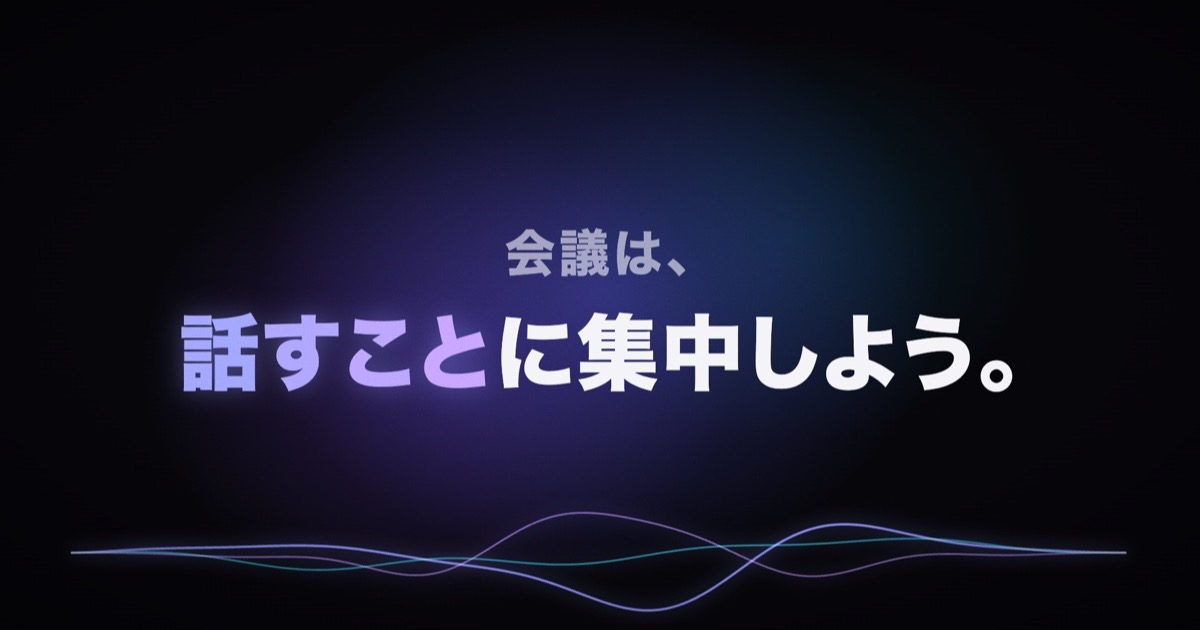
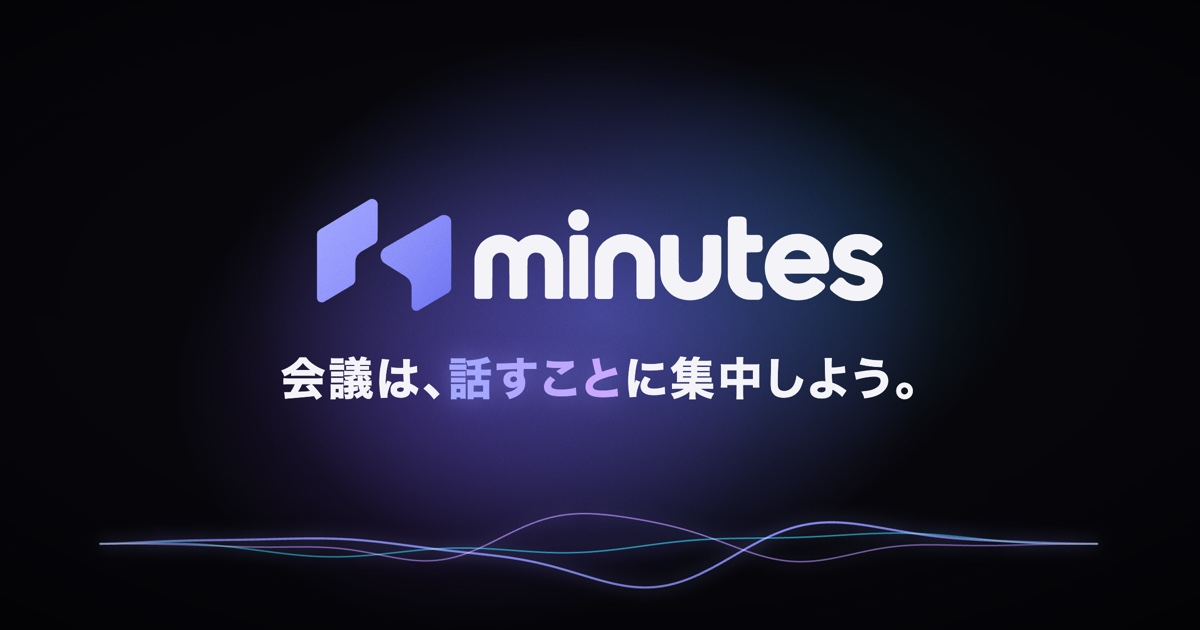
公開ページの OGP 画像をロゴ入りにする
紹介映像の最後の場面と同じ背景と光の上に、ロゴとキャッチコピー、声の波形を置いた。
ロゴとキャッチコピーのまとまりは光の中心（画像の中央より少し上）に置く。
英語版のページには「Focus on the conversation.」の画像を作り、og:image で分ける。
SNS が古い画像を使い続けないよう、画像の URL に ?v=2 を付けた。

Changed region(s): [[0.0617, 0.3016, 0.925, 0.9651], [0.5242, 0.9651, 0.555, 0.9952]]

diff --git a/site/index.html b/site/index.html
@@ -16,7 +16,7 @@
 <meta property="og:title" content="Minutes — 会議は、話すことに集中しよう。">
 <meta property="og:description" content="Mac で会議を録音し、話者付きの文字起こしと要約から議事録を作るアプリ。無料・オープンソース。">
 <meta property="og:url" content="https://minutes.tools/">
-<meta property="og:image" content="https://minutes.tools/assets/og-image.jpg">
+<meta property="og:image" content="https://minutes.tools/assets/og-image.jpg?v=2">
 <meta name="twitter:card" content="summary_large_image">
 <link rel="stylesheet" href="assets/site.css">
 <script>document.documentElement.classList.replace("no-js", "js")</script>

diff --git a/site/en/index.html b/site/en/index.html
@@ -16,7 +16,7 @@
 <meta property="og:title" content="Minutes — Focus on the conversation.">
 <meta property="og:description" content="A Mac app that records your meetings and writes the minutes from a transcript with speakers and a summary. Free and open source.">
 <meta property="og:url" content="https://minutes.tools/en/">
-<meta property="og:image" content="https://minutes.tools/assets/og-image.jpg">
+<meta property="og:image" content="https://minutes.tools/assets/og-image-en.jpg?v=2">
 <meta name="twitter:card" content="summary_large_image">
 <link rel="stylesheet" href="../assets/site.css">
 <script>document.documentElement.classList.replace("no-js", "js")</script>

diff --git a/scripts/site-en.py b/scripts/site-en.py
@@ -26,6 +26,7 @@ rep('content="Minutes — 会議は、話すことに集中しよう。"', 'cont
 rep('content="Mac で会議を録音し、話者付きの文字起こしと要約から議事録を作るアプリ。無料・オープンソース。"',
     'content="A Mac app that records your meetings and writes the minutes from a transcript with speakers and a summary. Free and open source."')
 rep('<meta property="og:url" content="https://minutes.tools/">', '<meta property="og:url" content="https://minutes.tools/en/">')
+rep('https://minutes.tools/assets/og-image.jpg', 'https://minutes.tools/assets/og-image-en.jpg')
 for attr in ('href', 'src', 'srcset', 'poster'):
     s = s.replace(f'{attr}="assets/', f'{attr}="../assets/')
 rep('>本文へ</a>', '>Skip to content</a>')
